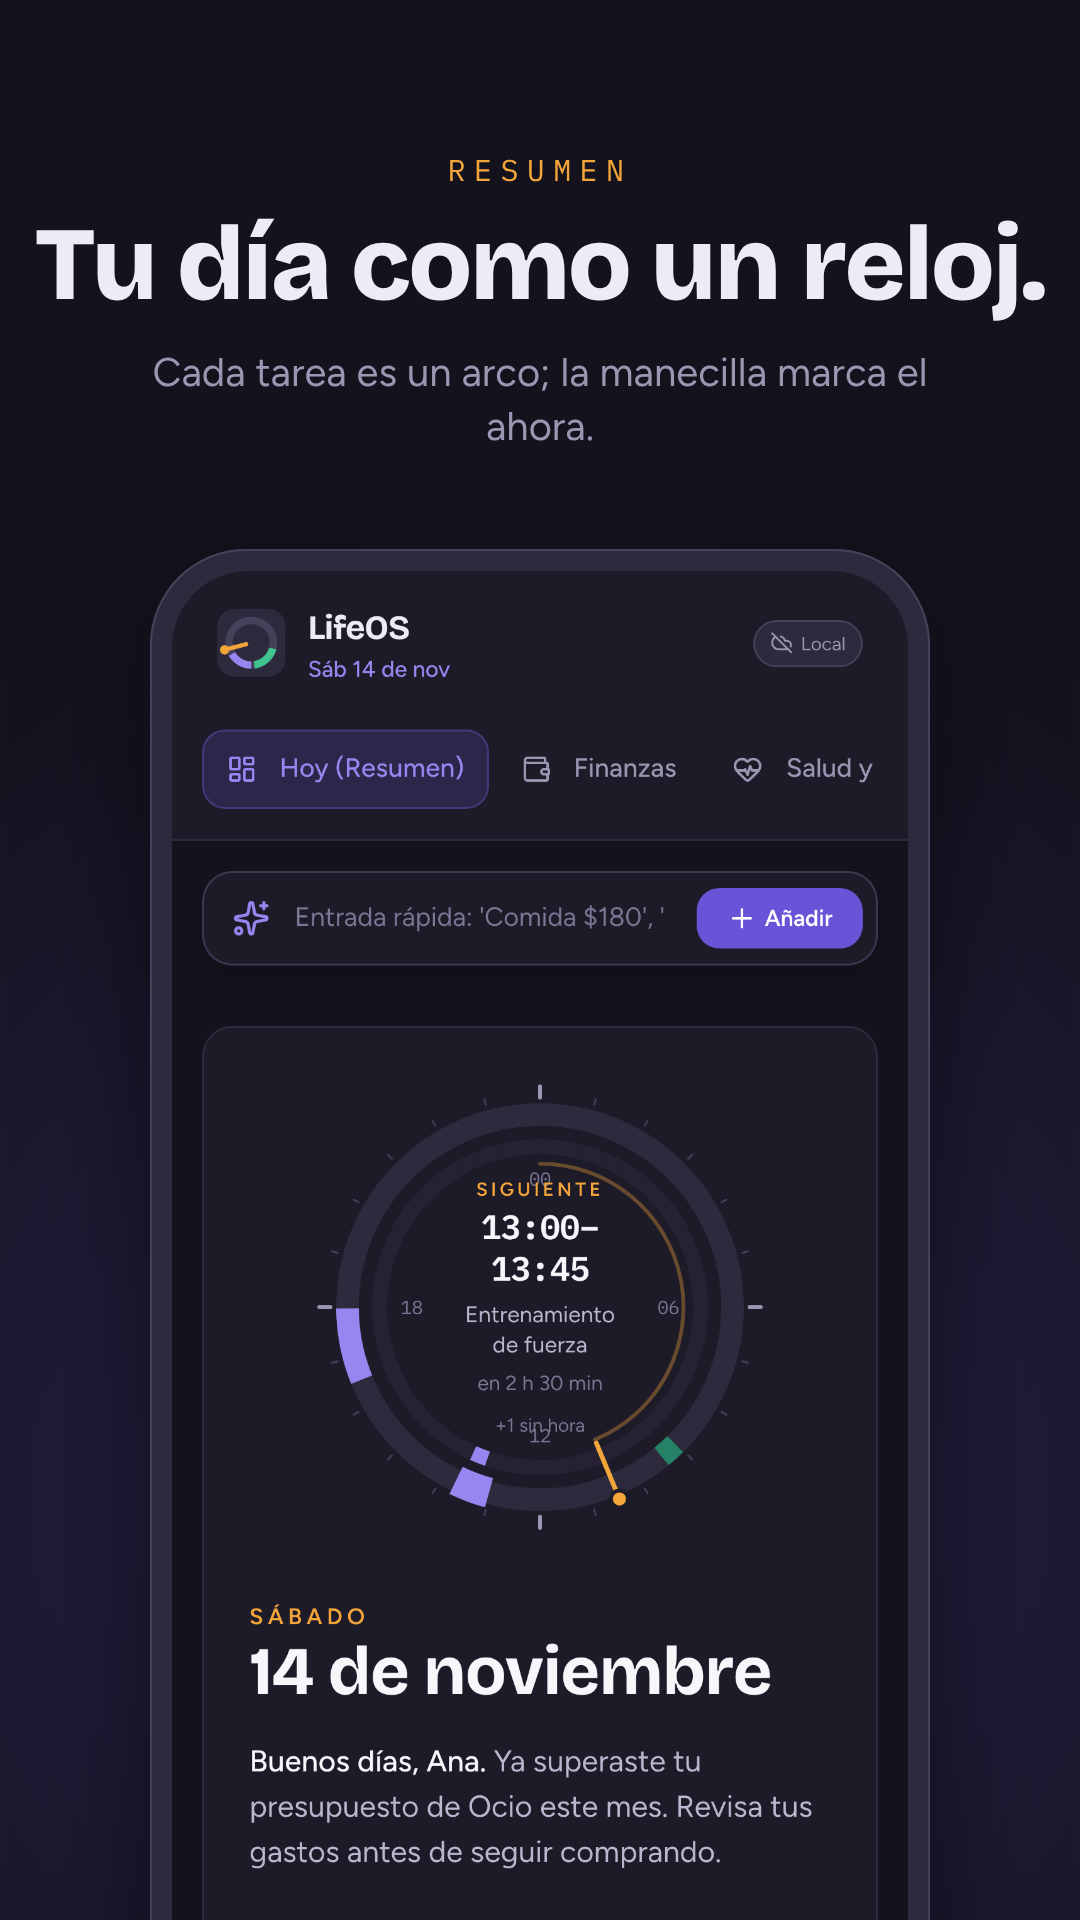
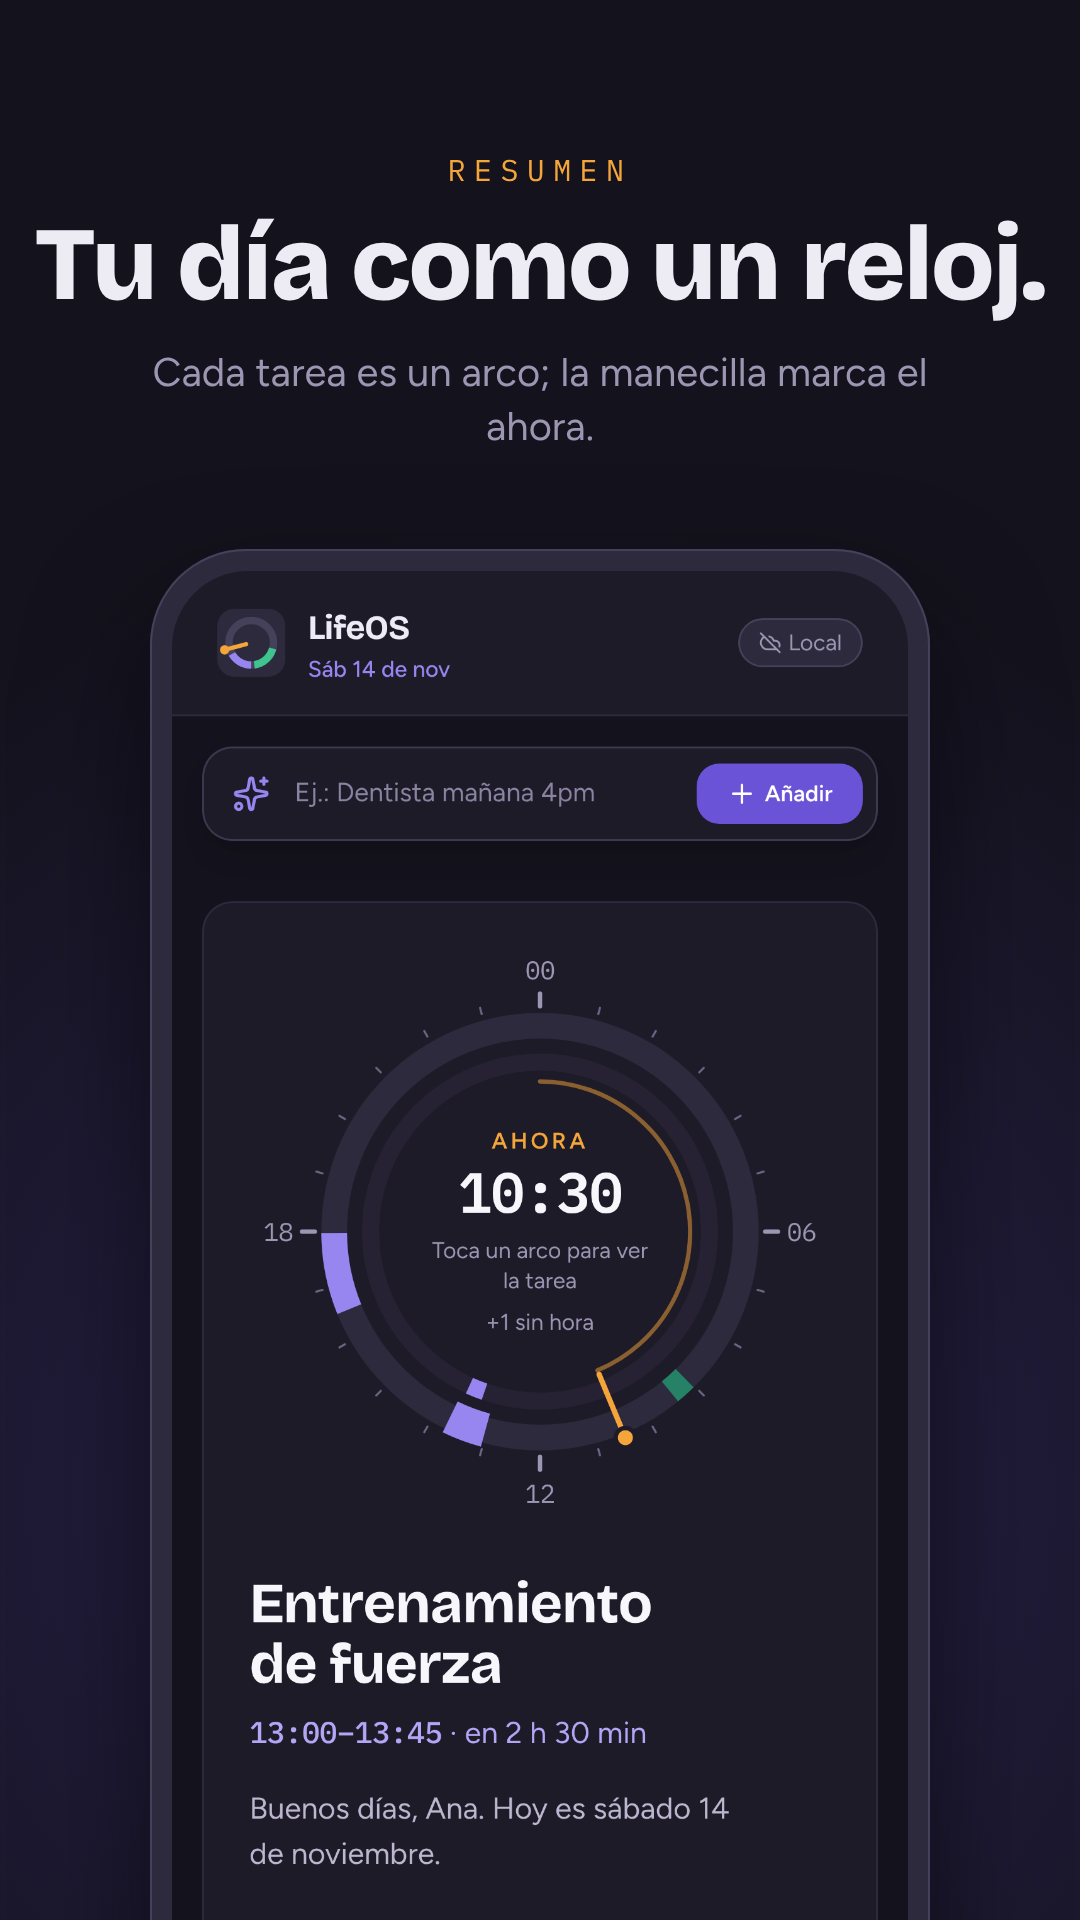
LifeOS: bottom navigation on phones
The phone nav was a horizontally scrolling strip at the top: Agenda and
Ajustes were off screen and out of thumb reach. Phones now get a fixed
5-tab bar at the bottom (icon + short label, jacaranda pill on the
active tab, aria-current, accessible names include the visible text,
safe-area inset with viewport-fit=cover). The sidebar nav is desktop
only; content and toasts leave room for the bar.

- New e2e test: 5 tabs fit at 390px, >=44px tall, pinned to the bottom,
  active state, and the last content is not hidden behind the bar
- Tests and the brand script use the visible nav; phone baselines and
  brand captures regenerated (desktop baselines unchanged)

Claude-Session: https://claude.ai/code/session_01VsudSZX4yg1qCGhuNQPdSG

diff --git a/lifeos/src/components/Sidebar.jsx b/lifeos/src/components/Sidebar.jsx
@@ -6,13 +6,50 @@ import {
 import { formatReadableDate } from '../lib/dates.js';
 import LogoMark from './LogoMark.jsx';
 
+// `short` es el nombre visible en la barra inferior del celular; `label`, el nombre completo
+// (el accesible lo incluye, así lo que se ve y lo que se anuncia coinciden).
 export const TABS = [
-  { id: 'dashboard', label: 'Hoy (Resumen)', icon: LayoutDashboard },
-  { id: 'finances', label: 'Finanzas', icon: Wallet },
-  { id: 'health', label: 'Salud y Hábitos', icon: HeartPulse },
-  { id: 'agenda', label: 'Agenda', icon: Calendar },
-  { id: 'settings', label: 'Ajustes', icon: Settings },
+  { id: 'dashboard', label: 'Hoy (Resumen)', short: 'Hoy', icon: LayoutDashboard },
+  { id: 'finances', label: 'Finanzas', short: 'Finanzas', icon: Wallet },
+  { id: 'health', label: 'Salud y Hábitos', short: 'Salud', icon: HeartPulse },
+  { id: 'agenda', label: 'Agenda', short: 'Agenda', icon: Calendar },
+  { id: 'settings', label: 'Ajustes', short: 'Ajustes', icon: Settings },
 ];
+
+// Navegación del celular: abajo, al alcance del pulgar, sin desplazarse de lado.
+export function BottomNav({ activeTab, onTab }) {
+  return (
+    <nav
+      data-nav
+      aria-label="Secciones"
+      className="md:hidden fixed inset-x-0 bottom-0 z-40 bg-slate-900 border-t border-slate-800 pb-[env(safe-area-inset-bottom)]"
+    >
+      <ul className="grid grid-cols-5">
+        {TABS.map(({ id, label, short, icon: Icon }) => {
+          const active = activeTab === id;
+          return (
+            <li key={id}>
+              <button
+                type="button"
+                onClick={() => onTab(id)}
+                aria-label={label}
+                aria-current={active ? 'page' : undefined}
+                className={`w-full min-h-16 flex flex-col items-center justify-center gap-1 text-xs font-medium transition-colors ${
+                  active ? 'text-indigo-300' : 'text-slate-400 hover:text-slate-200'
+                }`}
+              >
+                <span className={`flex items-center justify-center w-14 h-8 rounded-full transition-colors ${active ? 'bg-indigo-500/20' : ''}`} aria-hidden="true">
+                  <Icon className="w-5 h-5" />
+                </span>
+                <span aria-hidden="true">{short}</span>
+              </button>
+            </li>
+          );
+        })}
+      </ul>
+    </nav>
+  );
+}
 
 const BADGE = {
   synced: { label: 'Nube', title: 'Sincronizado en la nube', Icon: Cloud, cls: 'bg-emerald-500/10 border-emerald-500/30 text-emerald-400' },
@@ -84,7 +121,7 @@ export default function Sidebar({
   return (
     <aside className="w-full md:w-64 md:shrink-0 bg-slate-900 border-b md:border-b-0 md:border-r border-slate-800 p-4 flex flex-col justify-between">
       <div>
-        <div className="flex items-center justify-between px-2 mb-6">
+        <div className="flex items-center justify-between px-2 md:mb-6">
           <div className="flex items-center gap-3">
             <LogoMark className="w-9 h-9 shrink-0" />
             <div>
@@ -97,7 +134,7 @@ export default function Sidebar({
 
         {cloud.enabled && !cloud.session && cloud.showLogin && <LoginForm cloud={cloud} />}
 
-        <nav className="flex md:flex-col gap-1 overflow-x-auto">
+        <nav data-nav aria-label="Secciones" className="hidden md:flex md:flex-col gap-1">
           {TABS.map(({ id, label, icon: Icon }) => (
             <button
               key={id}

diff --git a/lifeos/e2e/flows.spec.js b/lifeos/e2e/flows.spec.js
@@ -208,3 +208,31 @@ test('ajustes: borrar todo y deshacer', async ({ page }) => {
   await page.getByRole('status').getByRole('button', { name: 'Deshacer' }).click();
   await expect(page.getByText('Dentista', { exact: true })).toBeVisible();
 });
+
+test.describe('celular: navegación inferior', () => {
+  test.use({ viewport: { width: 390, height: 844 }, isMobile: true, hasTouch: true });
+
+  test('las 5 secciones caben abajo, se tocan con el pulgar y marcan la activa', async ({ page }) => {
+    await openApp(page);
+    const bar = page.getByRole('navigation', { name: 'Secciones' }).filter({ visible: true });
+    const buttons = bar.getByRole('button');
+    await expect(buttons).toHaveCount(5);
+    const box = await bar.boundingBox();
+    expect(box.y + box.height).toBeCloseTo(844, 0); // pegada al borde inferior
+    for (const b of await buttons.all()) {
+      const r = await b.boundingBox();
+      expect(r.x).toBeGreaterThanOrEqual(0);
+      expect(r.x + r.width).toBeLessThanOrEqual(390); // sin desplazamiento lateral
+      expect(r.height).toBeGreaterThanOrEqual(44);
+    }
+    await bar.getByRole('button', { name: 'Ajustes' }).click();
+    await expect(bar.getByRole('button', { name: 'Ajustes' })).toHaveAttribute('aria-current', 'page');
+    await expect(page.getByRole('heading', { name: 'Ajustes', level: 2 })).toBeVisible();
+
+    // El final del contenido no queda tapado por la barra.
+    await page.evaluate(() => window.scrollTo(0, document.body.scrollHeight));
+    const last = await page.locator('main > *').last().boundingBox();
+    const barTop = (await bar.boundingBox()).y;
+    expect(last.y + last.height).toBeLessThanOrEqual(barTop);
+  });
+});

diff --git a/lifeos/src/App.jsx b/lifeos/src/App.jsx
@@ -1,5 +1,5 @@
 import { useState, useEffect, useCallback } from 'react';
-import Sidebar from './components/Sidebar.jsx';
+import Sidebar, { BottomNav } from './components/Sidebar.jsx';
 import Toast from './components/Toast.jsx';
 import QuickAddBar from './components/QuickAddBar.jsx';
 import DashboardView from './views/DashboardView.jsx';
@@ -204,7 +204,7 @@ export default function LifeOSApp() {
         onImportFile={importFile}
       />
 
-      <main id="contenido" tabIndex={-1} className="flex-1 min-w-0 p-4 md:p-8 max-w-6xl mx-auto w-full focus:outline-none">
+      <main id="contenido" tabIndex={-1} className="flex-1 min-w-0 p-4 pb-[calc(6rem+env(safe-area-inset-bottom))] md:p-8 max-w-6xl mx-auto w-full focus:outline-none">
         <QuickAddBar onSubmit={handleQuickAdd} />
 
         {activeTab === 'dashboard' && (
@@ -268,6 +268,8 @@ export default function LifeOSApp() {
           />
         )}
       </main>
+
+      <BottomNav activeTab={activeTab} onTab={setActiveTab} />
     </div>
   );
 }

diff --git a/lifeos/src/components/Toast.jsx b/lifeos/src/components/Toast.jsx
@@ -6,7 +6,7 @@ export default function Toast({ toast, onDismiss }) {
     <div
       role="status"
       aria-live="polite"
-      className="fixed bottom-6 left-4 right-4 md:left-auto md:right-6 md:max-w-md z-50 bg-indigo-600 text-white px-4 py-3 rounded-xl shadow-2xl flex items-center gap-2"
+      className="fixed bottom-[calc(5rem+env(safe-area-inset-bottom))] md:bottom-6 left-4 right-4 md:left-auto md:right-6 md:max-w-md z-50 bg-indigo-600 text-white px-4 py-3 rounded-xl shadow-2xl flex items-center gap-2"
     >
       <Sparkles className="w-4 h-4 shrink-0" />
       <span className="text-sm font-medium flex-1">{toast.msg}</span>

diff --git a/lifeos/index.html b/lifeos/index.html
@@ -2,7 +2,7 @@
 <html lang="es">
   <head>
     <meta charset="UTF-8" />
-    <meta name="viewport" content="width=device-width, initial-scale=1.0" />
+    <meta name="viewport" content="width=device-width, initial-scale=1.0, viewport-fit=cover" />
     <meta name="theme-color" content="#14121c" />
     <title>LifeOS</title>
     <script>

diff --git a/lifeos/e2e/fixtures.js b/lifeos/e2e/fixtures.js
@@ -111,4 +111,4 @@ export async function openApp(page) {
   await page.evaluate(() => document.fonts.ready);
 }
 
-export const nav = (page, name) => page.locator('aside nav').getByRole('button', { name });
+export const nav = (page, name) => page.locator('nav[data-nav]:visible').getByRole('button', { name });
